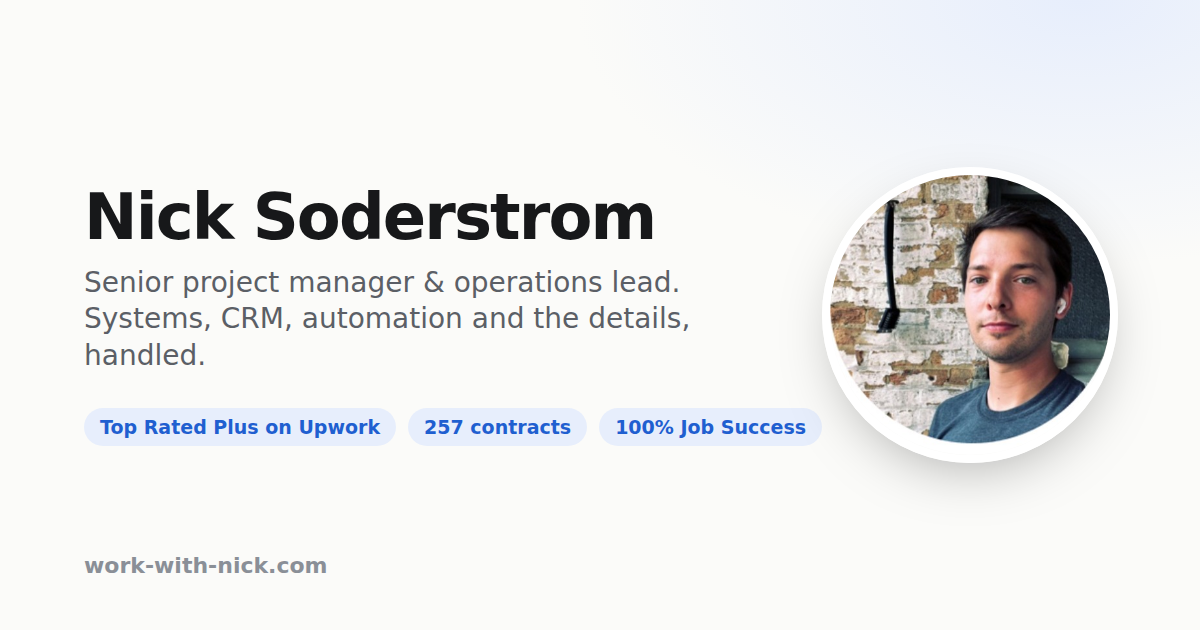
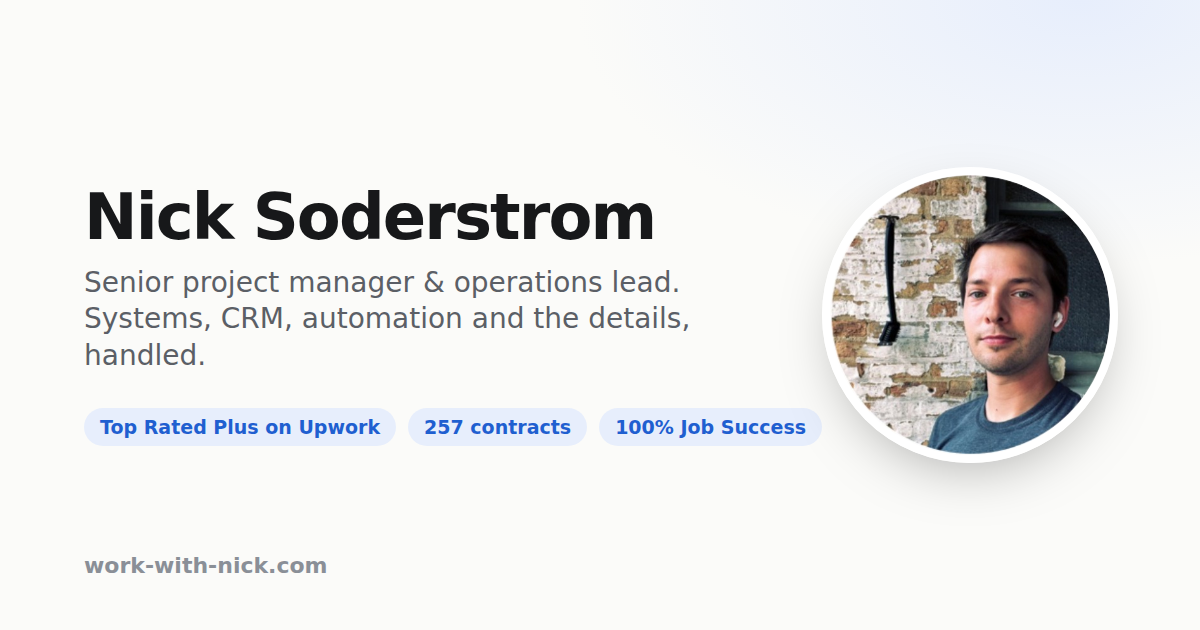
Center the profile photo crop and record SPARC at 3,700+ hours
Claude-Session: https://claude.ai/code/session_01Uphc53QRtcMS4qZo9nXWUs

Changed region(s): [[0.6783, 0.2714, 0.925, 0.7238]]

diff --git a/src/data/experience.ts b/src/data/experience.ts
@@ -25,7 +25,7 @@ export const experience: Role[] = [
     start: '2022',
     end: '2026',
     location: 'Bethesda, MD · Remote',
-    summary: 'Four years supporting the SPARC Portal, an open neuroscience and systems physiology platform.',
+    summary: 'Four years and 3,700+ hours supporting the SPARC Portal, an open neuroscience research platform.',
     slug: 'sparc-portal-digital-coordinator',
   },
   {

diff --git a/src/content/projects/sparc-portal-digital-coordinator.md b/src/content/projects/sparc-portal-digital-coordinator.md
@@ -1,7 +1,7 @@
 ---
 title: 'Four years as Digital Coordinator for the SPARC Portal'
 client: 'SPARC.science'
-summary: 'Long-running coordination, administration and communications role for the SPARC Portal, an open neuroscience and systems physiology platform funded by federal research.'
+summary: 'Four years and 3,700+ hours of coordination, administration and communications for the SPARC Portal, an open neuroscience and systems physiology platform funded by federal research.'
 category: 'consulting'
 platforms: ['Remote']
 stack: ['Office administration', 'Social media communications', 'Project coordination', 'Content operations']
@@ -17,7 +17,7 @@ placeholder: false
 
 The SPARC Portal is an open platform that brings together datasets, maps and computational resources for neuroscience and systems physiology research. It is built and maintained by a distributed team of researchers, engineers and program staff across several institutions.
 
-From March 2022 to March 2026 I served as the team's Digital Coordinator, one of my longest continuous engagements.
+From March 2022 to March 2026 I served as the team's Digital Coordinator. At more than 3,700 billed hours it is my longest engagement to date.
 
 ## What I did
 
@@ -27,4 +27,4 @@ From March 2022 to March 2026 I served as the team's Digital Coordinator, one of
 
 ## Why it matters
 
-Research programs live or die on coordination. Four years with the same team, through multiple platform releases, is the kind of engagement I aim for: consistent, detail-oriented and easy to keep around.
+Research programs live or die on coordination. Four years and 3,700 hours with the same team, through multiple platform releases, is the kind of engagement I aim for: consistent, detail-oriented and easy to keep around.
